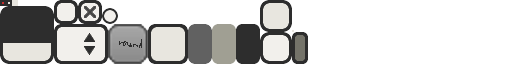
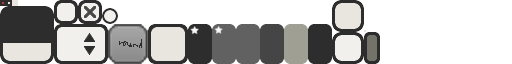
Add visual clue to already completed levels in level menu

Changed region(s): [[0.3438, 0.0, 0.75, 1.0]]

diff --git a/core/src/com/game/mygame/LevelMenu.java b/core/src/com/game/mygame/LevelMenu.java
@@ -18,7 +18,7 @@ public class LevelMenu extends Table {
 	private EnumMap<Difficulty, Table> levelOverviews;
 	private EnumMap<Difficulty, TextButton[]> levelButtons;
 	private DifficultyButtonGroup difficultyButtons;
-	private TextButton.TextButtonStyle unlockedStyle, lockedStyle, selectStyle;
+	private TextButton.TextButtonStyle unlockedStyle, completedStyle, lockedStyle, selectStyle;
 	private NinePatchDrawable lockedBackground;
 	private Sound buttonSound;
 
@@ -33,6 +33,23 @@ public class LevelMenu extends Table {
 				"select", TextButton.TextButtonStyle.class);
 		unlockedStyle = game.getSkin().get(
 				"default", TextButton.TextButtonStyle.class);
+		NinePatch unlockedPatch = game.getSkin().get(
+				"default-round", NinePatch.class);
+		NinePatchDrawable unlockedBackground  =
+				new NinePatchDrawable(unlockedPatch);
+		unlockedStyle.up = unlockedBackground;
+		unlockedStyle.checked = unlockedBackground;
+		completedStyle = new TextButton.TextButtonStyle(unlockedStyle);
+		NinePatch completedPatch = game.getSkin().get(
+				"default-round-completed", NinePatch.class);
+		NinePatchDrawable completedBackground  =
+				new NinePatchDrawable(completedPatch);
+		completedStyle.up = completedBackground;
+		completedStyle.checked = completedBackground;
+		NinePatch completedDownPatch = game.getSkin().get(
+				"default-round-down-completed", NinePatch.class);
+		completedStyle.down = new NinePatchDrawable(completedDownPatch);
+
 		lockedStyle = new TextButton.TextButtonStyle(unlockedStyle);
 		NinePatch backgroundPatch =
 				game.getSkin().get("level-locked", NinePatch.class);
@@ -138,7 +155,11 @@ public class LevelMenu extends Table {
 		for (Difficulty difficulty : Difficulty.values()) {
 			for (int i = 0; i < 16; i++) {
 				TextButton button = levelButtons.get(difficulty)[i];
-				if (game.getSaveState().isUnlocked(difficulty, i+1)) {
+				if (game.getSaveState().isUnlocked(difficulty, i+2)) {
+					button.setTouchable(Touchable.enabled);
+					button.setStyle(completedStyle);
+					//button.setBackground("default-round-down-completed");
+				} else if (game.getSaveState().isUnlocked(difficulty, i+1)) {
 					button.setTouchable(Touchable.enabled);
 					button.setStyle(unlockedStyle);
 					if (i == 1 && difficulty == Difficulty.NORMAL) {
